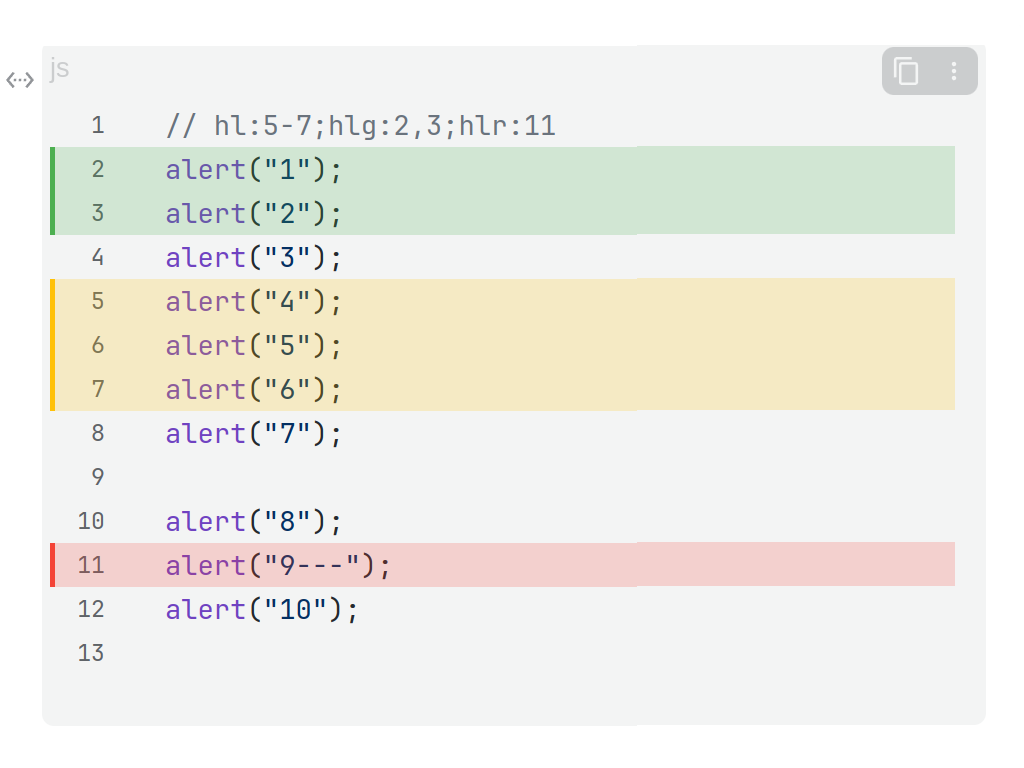
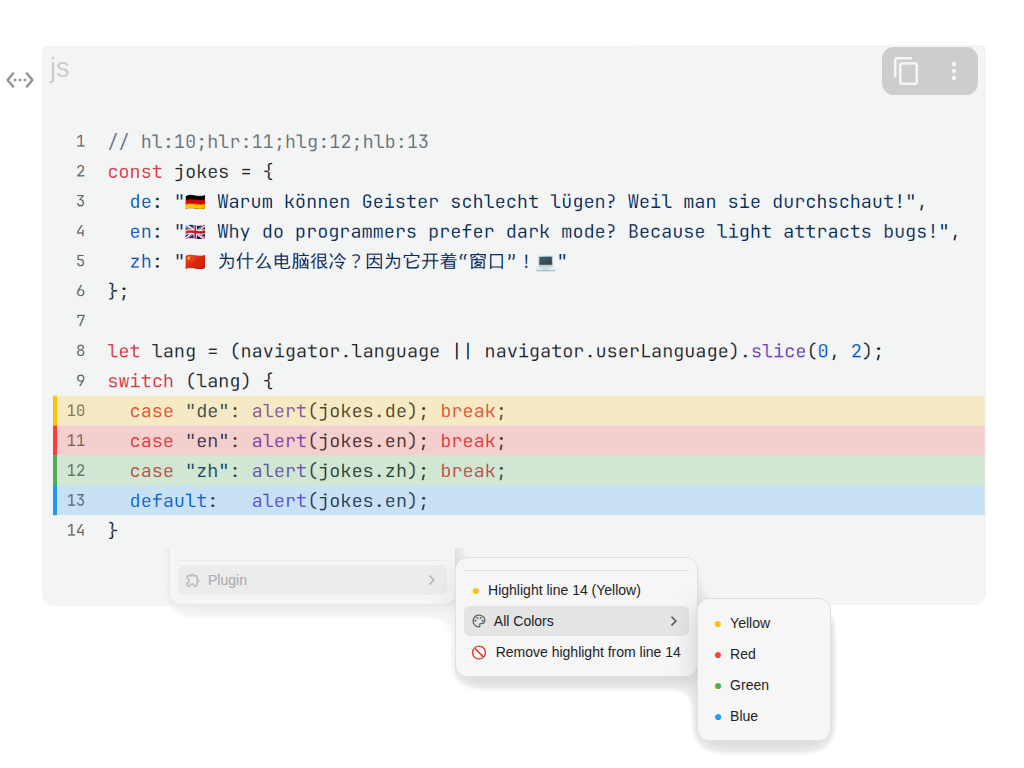
Add legacy comment style option for highlights and update version to 3.2.1

diff --git a/src/index.ts b/src/index.ts
@@ -42,7 +42,7 @@ export default class LineHighlightPlugin extends Plugin {
     };
 
     private colors: Record<string, ColorTheme> = {};
-    private config: { autoEnableLineNumber: boolean, defaultColor: string } = { autoEnableLineNumber: true, defaultColor: 'yellow' };
+    private config: { autoEnableLineNumber: boolean, defaultColor: string, useCommentStyle: boolean } = { autoEnableLineNumber: true, defaultColor: 'yellow', useCommentStyle: false };
 
     async onload() {
         console.log('LineHighlightPlugin: onload');
@@ -139,6 +139,19 @@ export default class LineHighlightPlugin extends Plugin {
                 container.appendChild(this.createElement('span', { marginLeft: '8px' }, {}, ['Automatically enable line numbers when adding highlights (Required for highlights to show properly)']));
 
                 wrapper.appendChild(container);
+
+                // Use Comment Style Checkbox
+                const commentWrapper = this.createElement('div', { display: 'flex', alignItems: 'center', width: '100%', marginTop: '10px' });
+                const commentSwitch = this.createElement('input', { cursor: 'pointer' }, { type: 'checkbox' });
+                if (this.config.useCommentStyle) commentSwitch.checked = true;
+                commentSwitch.addEventListener('change', async () => {
+                    this.config.useCommentStyle = commentSwitch.checked;
+                    await this.saveConfig();
+                });
+                commentWrapper.appendChild(commentSwitch);
+                commentWrapper.appendChild(this.createElement('span', { marginLeft: '8px' }, {}, ['Use legacy comment style (`// hl:1`) instead of attributes for context menu highlights']));
+                wrapper.appendChild(commentWrapper);
+
                 return wrapper;
             }
         });
@@ -397,15 +410,162 @@ export default class LineHighlightPlugin extends Plugin {
         const blockId = nodeElement?.getAttribute('data-node-id');
         if (!blockId) { showMessage('Cannot find block ID', 3000, 'error'); return; }
 
-        let groups = await this.getHighlightGroupsFromAttributes(blockId);
+        let groups: HighlightGroup[] = [];
+        if (this.config.useCommentStyle) {
+            groups = await this.getHighlightGroupsFromCommentSource(codeBlock);
+        } else {
+            groups = await this.getHighlightGroupsFromAttributes(blockId);
+        }
+
         groups = action(groups);
 
-        await this.saveHighlightGroupsToAttributes(blockId, groups, codeBlock);
+        if (this.config.useCommentStyle) {
+            await this.saveHighlightGroupsToCommentSource(blockId, groups, codeBlock);
+        } else {
+            await this.saveHighlightGroupsToAttributes(blockId, groups, codeBlock);
+        }
 
         // Immediate local update
         this.processCodeBlock(codeBlock);
 
         if (successMsg) showMessage(successMsg, 2000, 'info');
+    }
+
+    private async getHighlightGroupsFromCommentSource(codeBlock: HTMLElement): Promise<HighlightGroup[]> {
+         const firstLine = (codeBlock.querySelector('.hljs')?.textContent || '').split('\n')[0] || '';
+         const marker = this.parseHighlightMarker(firstLine);
+         return marker ? marker.groups : [];
+    }
+
+    private async saveHighlightGroupsToCommentSource(blockId: string, groups: HighlightGroup[], codeBlock: HTMLElement): Promise<void> {
+        console.log('LineHighlightPlugin: saveHighlightGroupsToCommentSource', blockId, groups);
+
+        const response = await fetchSyncPost('/api/block/getBlockKramdown', { id: blockId });
+        if (!response.data || !response.data.kramdown) return;
+
+        const kramdown = response.data.kramdown as string;
+        // Modified Regex to capture attributes (IAL) after the closing fence
+        const fenceMatch = kramdown.match(/^(\s*```)(\w+)?(\s*\n)([\s\S]*?)(\s*```)([\s\S]*)$/);
+
+        if (!fenceMatch) return;
+
+        const prefix = fenceMatch[1];
+        const lang = fenceMatch[2] || '';
+        const newline = fenceMatch[3];
+        const content = fenceMatch[4];
+        const closingFence = fenceMatch[5];
+        let attributes = fenceMatch[6]; // Change to let for modification
+
+        let lines = content.split('\n');
+        // Handle edge case where split adds empty string if content ends with newline
+        if (lines.length > 0 && content.endsWith('\n') && lines[lines.length - 1] === '') lines.pop();
+
+        const firstLine = lines[0] || '';
+        const marker = this.parseHighlightMarker(firstLine);
+        const hasHighlights = groups.length > 0;
+
+        const commentSyntax = this.getCommentSyntax(lang);
+
+        if (marker) {
+            // Existing marker found
+            if (hasHighlights) {
+                // Update marker
+                lines[0] = this.generateMarkerString(groups, commentSyntax);
+            } else {
+                // Remove marker
+                lines.shift();
+            }
+        } else {
+            // No existing marker
+             if (hasHighlights) {
+                 // SHIFT LOGIC: Creating new marker line shifts content down.
+                 // We must bump highlight indices by 1 so they match the new line positions.
+                 groups.forEach(g => g.lines = g.lines.map(l => l + 1));
+
+                 // Add new marker with shifted lines
+                 lines.unshift(this.generateMarkerString(groups, commentSyntax));
+             }
+        }
+
+        // Ensure linenumber attribute is present in IAL if needed
+        if (hasHighlights && this.config.autoEnableLineNumber) {
+            if (!attributes) {
+                // Should not happen as getBlockKramdown usually returns IAL with ID
+                attributes = '\n{: linenumber="true"}';
+            } else if (!attributes.includes('linenumber="true"')) {
+                // Add linenumber="true" to existing IAL
+                // IAL format: {: id="xxx" attr="yyy"}
+                // We replace the closing brace } with  linenumber="true"}
+                if (attributes.includes('}')) {
+                    attributes = attributes.replace('}', ' linenumber="true"}');
+                } else {
+                    // Fallback if malformed
+                    attributes += ' {: linenumber="true"}';
+                }
+            }
+        }
+
+        // Reconstruct code block
+        const newBody = lines.join('\n');
+
+        // Ensure proper separation: if closing fence doesn't start with a newline, add one.
+        const separator = /^\s*[\r\n]/.test(closingFence) ? '' : '\n';
+
+        const newKramdown = `${prefix}${lang}${newline}${newBody}${separator}${closingFence}${attributes}`;
+
+        await fetchSyncPost('/api/block/updateBlock', { id: blockId, dataType: 'markdown', data: newKramdown });
+
+        // Manually trigger processing because updateBlock might not trigger attribute observers the same way,
+        // but it triggers layout/render.
+        // Also enable line numbers if needed (via attributes, because that's separate from markers)
+        if (hasHighlights && this.config.autoEnableLineNumber) {
+            // Check if attribute is already set
+            const attrRes = await fetchSyncPost('/api/attr/getBlockAttrs', { id: blockId });
+            if (!attrRes.data?.linenumber) {
+                 await fetchSyncPost('/api/attr/setBlockAttrs', { id: blockId, attrs: { linenumber: 'true' } });
+            }
+
+            // CRITICAL FIX: Force UI update for line numbers
+            if (codeBlock) {
+                const nodeElement = codeBlock.closest('[data-node-id]') as HTMLElement;
+                if (nodeElement) {
+                    nodeElement.setAttribute('linenumber', 'true');
+                    const contentDiv = codeBlock.querySelector('.hljs div[contenteditable="true"]');
+                    if (contentDiv) {
+                        contentDiv.dispatchEvent(new Event('input', { bubbles: true, cancelable: true }));
+                    }
+                    codeBlock.querySelector('.hljs')?.removeAttribute('data-render');
+                }
+            }
+        }
+    }
+
+    private getCommentSyntax(lang: string): { start: string, end: string } {
+        const l = lang.toLowerCase().trim();
+        if (['html', 'xml', 'svg', 'markdown', 'md'].includes(l)) return { start: '<!--', end: '-->' };
+        if (['css', 'less', 'scss', 'c'].includes(l)) return { start: '/*', end: '*/' };
+        if (['python', 'py', 'ruby', 'rb', 'perl', 'bash', 'sh', 'shell', 'yaml', 'yml', 'dockerfile', 'r', 'elixir'].includes(l)) return { start: '#', end: '' };
+        if (['lua', 'sql'].includes(l)) return { start: '--', end: '' };
+        if (['erlang', 'latex', 'tex'].includes(l)) return { start: '%', end: '' };
+        if (['clojure', 'lisp', 'scheme'].includes(l)) return { start: ';', end: '' };
+        if (['vim'].includes(l)) return { start: '"', end: '' };
+        return { start: '//', end: '' }; // Default (JS, TS, Java, C++, C#, Go, Rust, Swift, PHP...)
+    }
+
+    private generateMarkerString(groups: HighlightGroup[], syntax: { start: string, end: string }): string {
+        const parts: string[] = [];
+        groups.forEach(g => {
+            let code = 'hl'; // Default yellow
+            if (g.color === 'red') code = 'hlr';
+            else if (g.color === 'green') code = 'hlg';
+            else if (g.color === 'blue') code = 'hlb';
+            else if (g.color === 'custom1') code = 'hl5';
+            else if (g.color === 'custom2') code = 'hl6';
+            else if (g.color === 'custom3') code = 'hl7';
+            parts.push(`${code}:${this.formatLineSpec(g.lines)}`);
+        });
+        const inner = parts.join(';');
+        return `${syntax.start} ${inner} ${syntax.end}`.trim();
     }
 
     private async getHighlightGroupsFromAttributes(blockId: string): Promise<HighlightGroup[]> {
@@ -517,7 +677,7 @@ export default class LineHighlightPlugin extends Plugin {
         const contentRect = content.getBoundingClientRect();
         const padding = parseFloat(window.getComputedStyle(content).paddingLeft) || 0;
         const offset = (contentRect.left - rowRect.left) - padding;
-        const totalWidth = rowRect.width + Math.abs(offset) + contentRect.width - 10;
+        const totalWidth = rowRect.width + Math.abs(offset) + contentRect.width - 20;
 
         // CRITICAL FIX: Wrapper has 0 width to not affect layout, overlays have full width
         wrapper.style.width = '0px';
@@ -663,7 +823,7 @@ export default class LineHighlightPlugin extends Plugin {
         const contentRect = content.getBoundingClientRect();
         const padding = parseFloat(window.getComputedStyle(content).paddingLeft) || 0;
         const offset = (contentRect.left - rowRect.left) - padding;
-        const totalWidth = rowRect.width + Math.abs(offset) + contentRect.width - 10;
+        const totalWidth = rowRect.width + Math.abs(offset) + contentRect.width - 20;
 
         const wrapper = this.createElement('div',
             { position: 'absolute', left: '-10px', top: '0', width: '0px', height: '100%', pointerEvents: 'none', zIndex: '1', overflow: 'visible' },
@@ -687,31 +847,43 @@ export default class LineHighlightPlugin extends Plugin {
     }
 
     private parseHighlightMarker(line: string): { groups: HighlightGroup[], rawSpec: string } | null {
-        const content = ['//', '#', '<!--', '/*'].reduce((acc, p) => acc || (line.trim().startsWith(p) ? line.match(new RegExp(`^\\${p}\\s*(.+?)(?:\\s*\\*/|\\s*-->)?$`))?.[1]?.trim() || null : null), null as string | null);
-        if (!content) return null;
+        // Regex to detect various comment styles and extract inner content
+        // Supports: // ... | # ... | <!-- ... --> | /* ... */ | -- ... | % ... | ; ... | " ...
+        const commentRegex = /^\s*(?:\/\/|#|<!--|\/\*|--|%|;|")\s*(.+?)(?:\s*(?:\*\/|-->))?$/;
 
+        const contentMatch = line.trim().match(commentRegex);
+        if (!contentMatch) return null;
+
+        const content = contentMatch[1].trim();
         const groups: HighlightGroup[] = [];
         let hasMatch = false, match;
-        const regex = /hl([rgby1-7])?:([0-9,\-]+)/g;
+        // Regex to parse highlight parts like hl:1-3 or hl5:10
+        const regex = /hl([rgby]|1-7|c[1-3])?:([0-9,\-]+)/g;
 
         while ((match = regex.exec(content)) !== null) {
             hasMatch = true;
-            groups.push({ lines: this.parseLineSpec(match[2]), color: this.getColorFromCode(match[1] || '1') });
+            // Map code to color name
+            let colorCode = match[1] || 'y';
+            // Normalize legacy codes if needed, though they match regex groups
+            groups.push({ lines: this.parseLineSpec(match[2]), color: this.getColorFromCode(colorCode) });
         }
         return hasMatch ? { groups, rawSpec: content } : null;
     }
 
     private getColorFromCode(code: string): ColorName {
+        // Normalize input
+        const c = code.toLowerCase();
+
         const map: Record<string, ColorName> = {
-            'y': 'yellow', '1': 'yellow',
+            'y': 'yellow', '1': 'yellow', '': 'yellow',
             'r': 'red',    '2': 'red',
             'g': 'green',  '3': 'green',
             'b': 'blue',   '4': 'blue',
-            '5': 'custom1',
-            '6': 'custom2',
-            '7': 'custom3'
+            '5': 'custom1', 'c1': 'custom1',
+            '6': 'custom2', 'c2': 'custom2',
+            '7': 'custom3', 'c3': 'custom3'
         };
-        return map[code] || 'yellow';
+        return map[c] || 'yellow';
     }
 
     private parseLineSpec(spec: string): number[] {

diff --git a/README_de_DE.md b/README_de_DE.md
@@ -122,6 +122,7 @@ npm run build
 
 ## Changelog (aktuell)
 
+- v3.2.1 — Legacy Highlight-Kommentar-Syntax kann per Kontext-Menü verwendet werden (Option hinzugefügt)
 - v3.1.2 — Kleinere optische Anpassungen
 - v3.1.1 — Z-Index Fix
 - v3.1.0 — Benutzerdefinierte Farben für Hervorhebungen und weitere Verbesserungen

diff --git a/README.md b/README.md
@@ -122,6 +122,7 @@ npm run build
 
 ## Changelog (recent)
 
+- v3.2.1 — Legacy highlight comment syntax can be used via context menu (option added)
 - v3.1.2 — Minor visual adjustments
 - v3.1.1 — Z-Index Fix
 - v3.1.0 — Custom colors for highlights and more improvements

diff --git a/README_zh_CN.md b/README_zh_CN.md
@@ -136,6 +136,7 @@ npm run build
 
 ## 更新日志（近期）
 
+- v3.2.1 — 遗留高亮注释语法可通过右键菜单使用（已添加选项）
 - v3.1.2 — 小幅界面调整
 - v3.1.1 — Z-Index 修复
 - v3.1.0 — 自定义高亮颜色及更多改进
